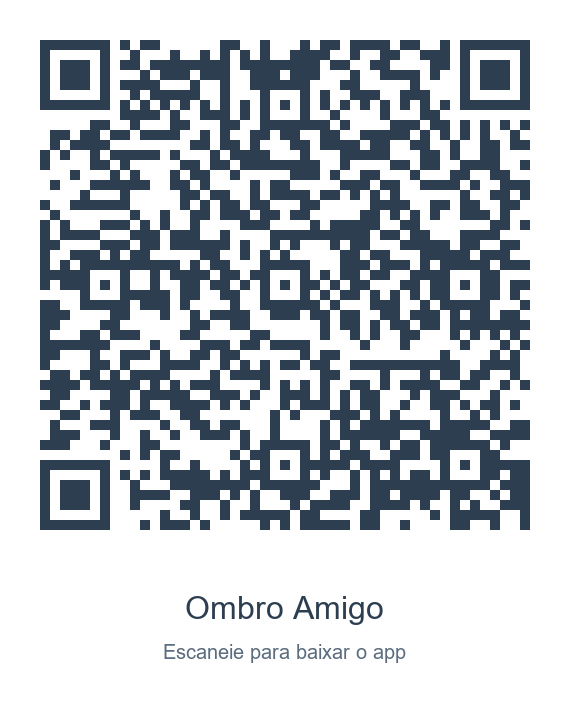
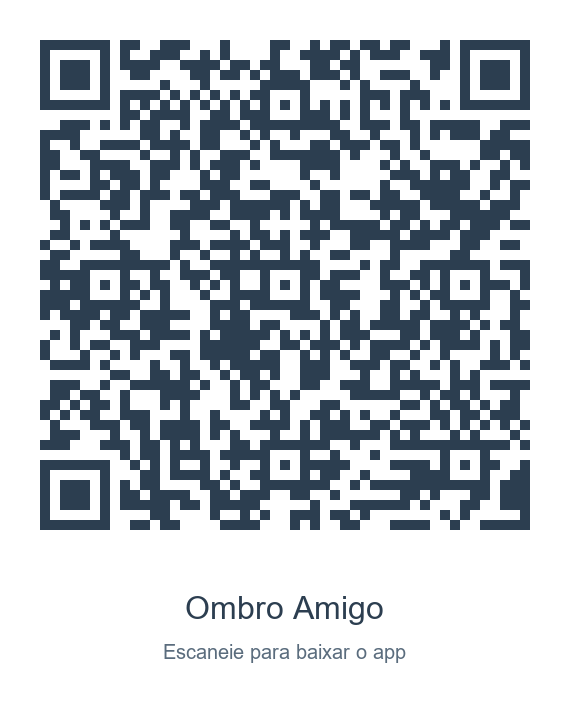
correcao QR code

Changed region(s): [[0.0596, 0.0306, 0.9246, 0.7333]]

diff --git a/gerar_qrcode.py b/gerar_qrcode.py
@@ -2,7 +2,8 @@ import qrcode
 from PIL import Image, ImageDraw, ImageFont
 
 # Link do Google Drive - Download direto
-link = "https://drive.google.com/file/d/1Tvtv8PsZ6ukX6Xy397yb7_xkamwKig7n/view?usp=sharing"
+# Formato: https://drive.google.com/uc?export=download&id=FILE_ID
+link = "https://drive.google.com/uc?export=download&id=1Tvtv8PsZ6ukX6Xy397yb7_xkamwKig7n"
 
 # Criar QR Code
 qr = qrcode.QRCode(
